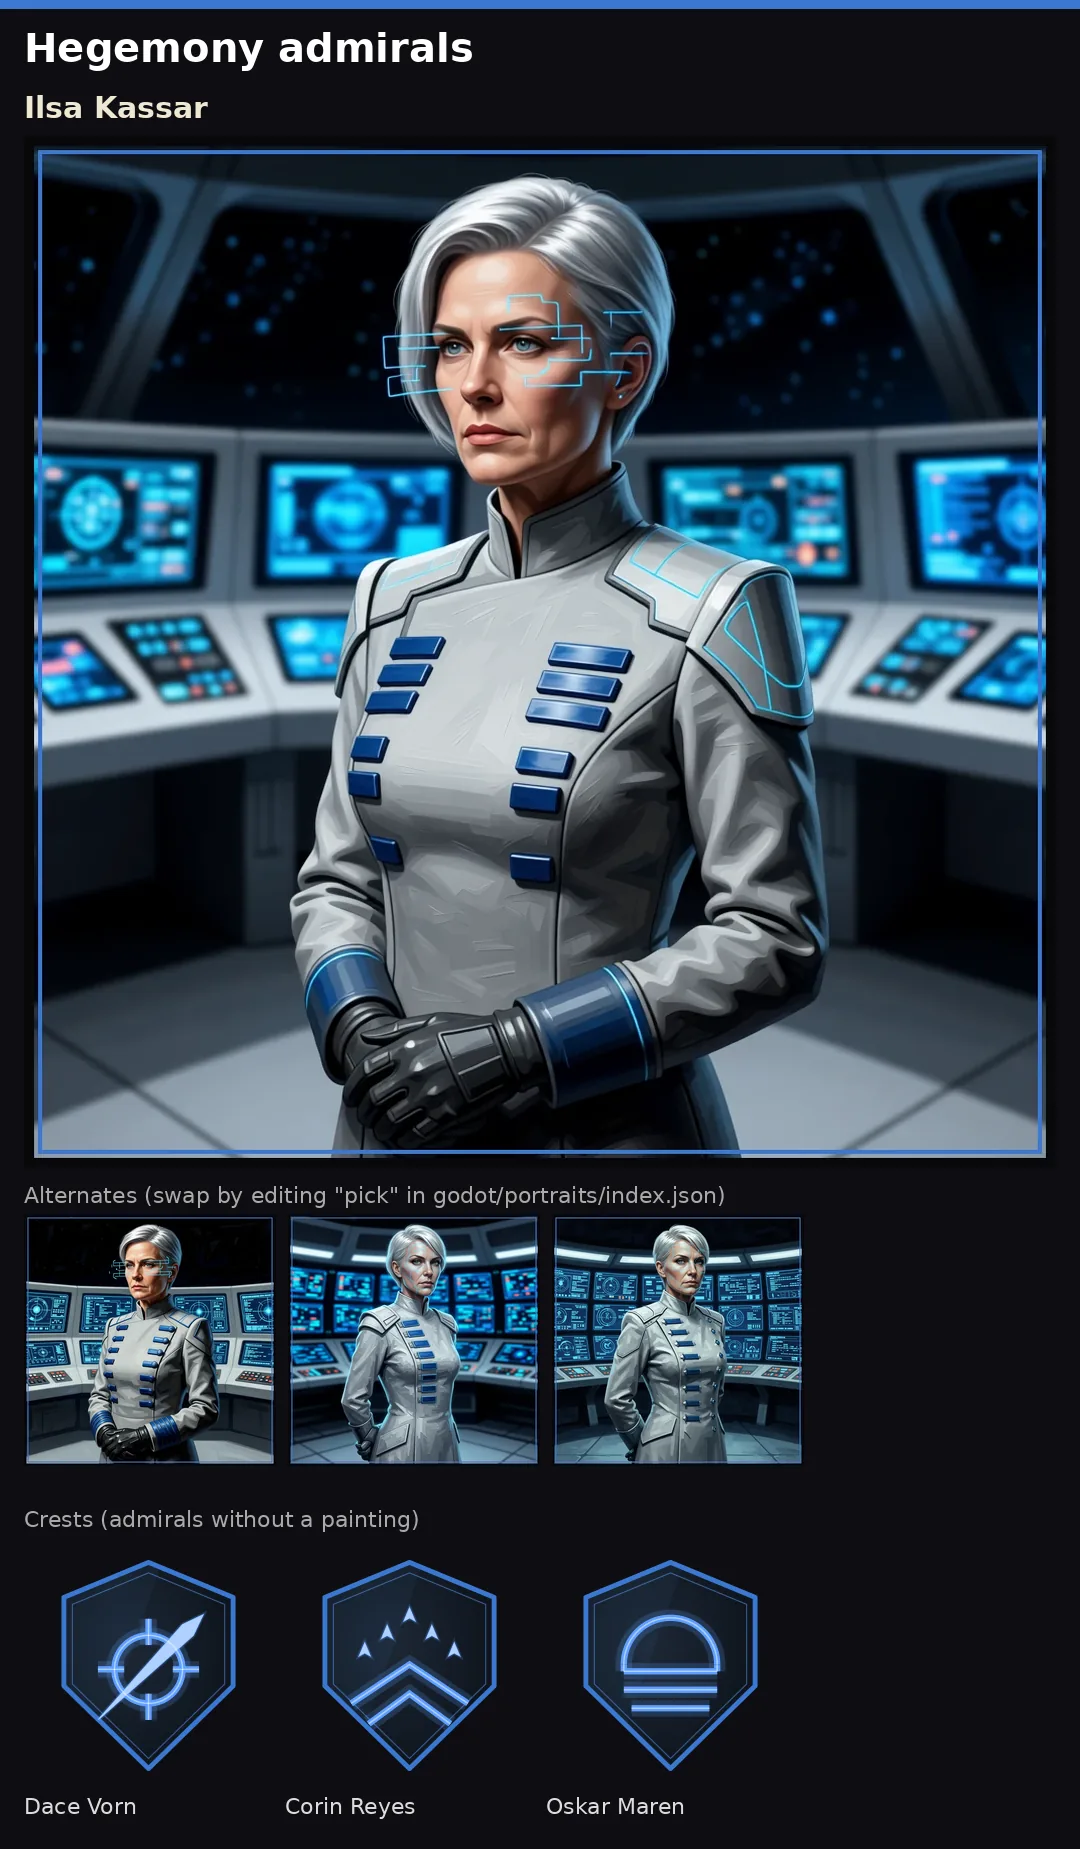
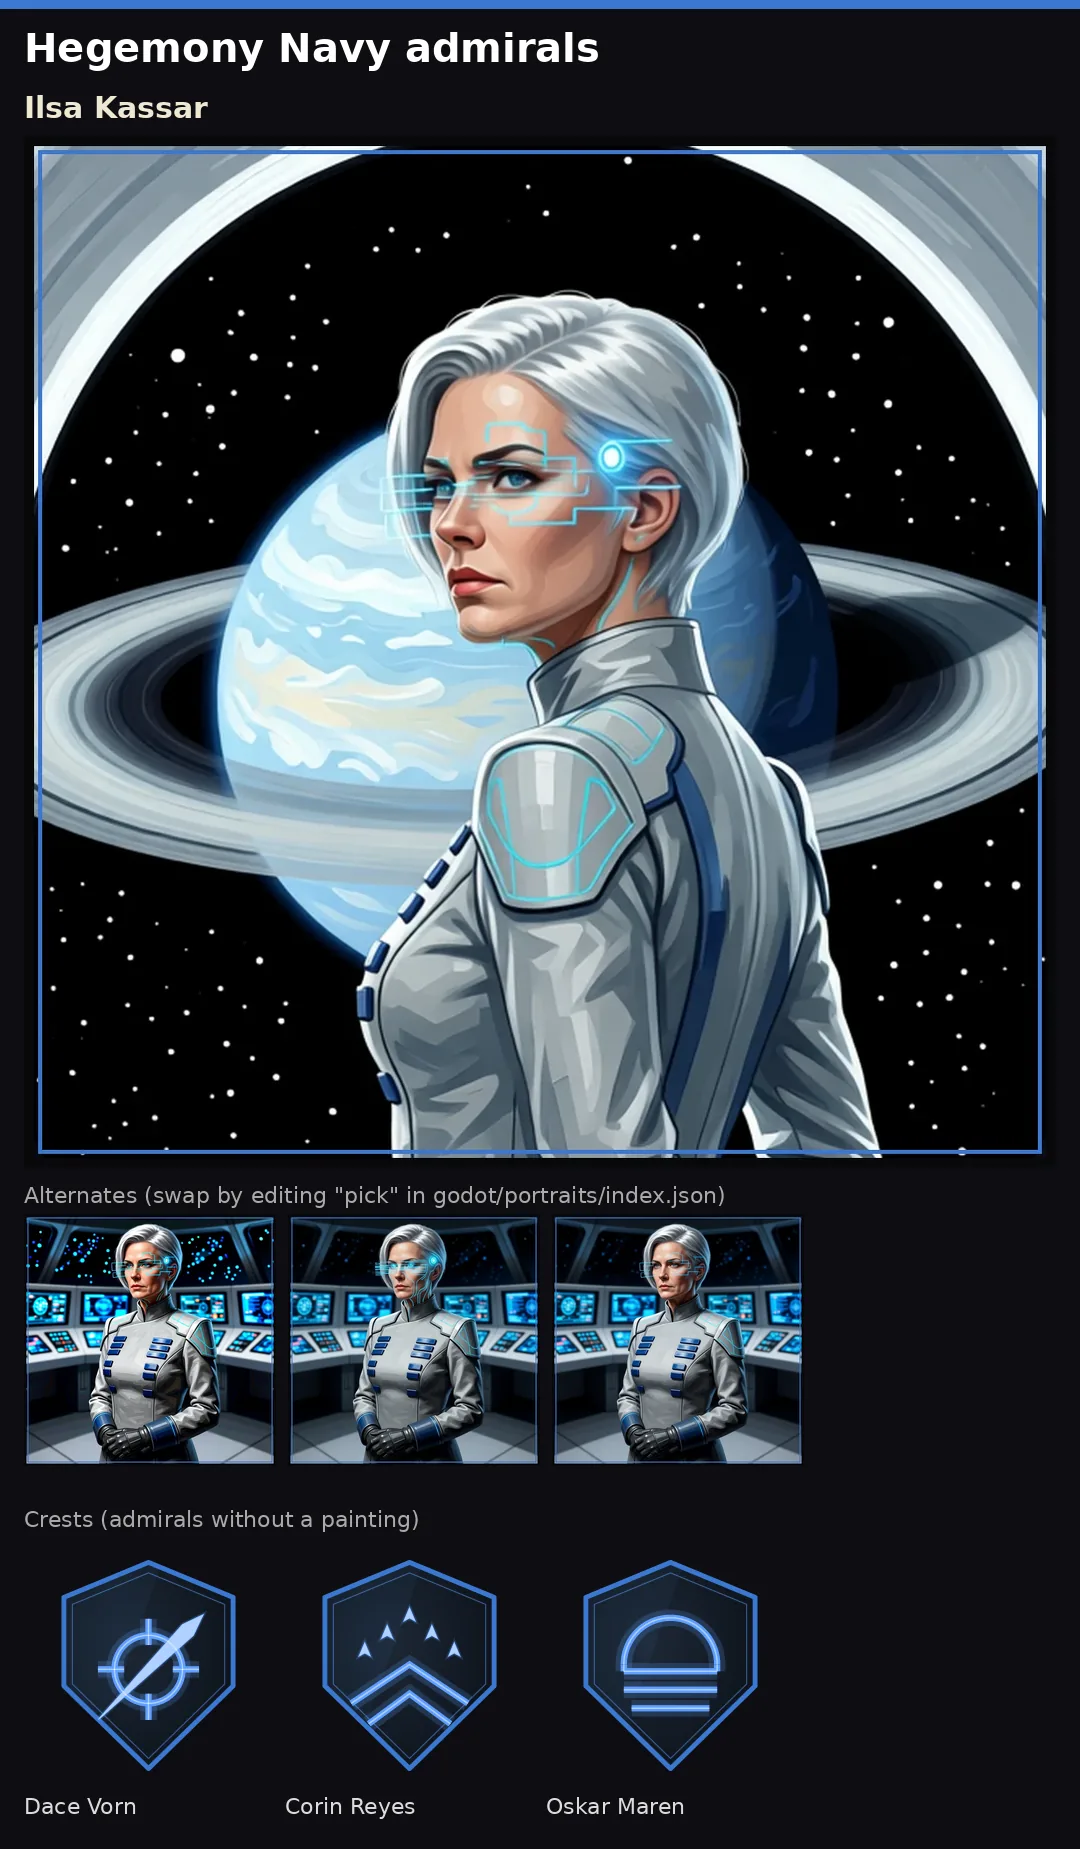
P: Kassar in a council chamber over a ringed gas giant (e64e s83; the dock and map tries drew a sea ship and Earth); Hegemony phone sheet rebuilt; Hullbreaker Nemesis 4 and 6 picks (v64h6) and s68i queued (small eye-ring implant scar, faceless Glasswright burn, scars for Nemesis 4 and 6)
Claude-Session: https://claude.ai/code/session_01TX7Q24QdU9ZhdJ2eQued6X

diff --git a/tools/portraits/make_edits.py b/tools/portraits/make_edits.py
@@ -318,6 +318,25 @@ def v64h6_items(seeds=(11, 23)):
                 for sd in seeds]
     return out
 
+# s68i (Nov 1, P helper 4): s68h review. The Hullbreaker implant scar ("bolted-on iron plate") grew into a riveted face mask on
+# Nemesis 1, 3 and 5 (Ryan's A1 ruling: no riveted mask or helmet), so it is narrowed to one small eye-socket ring; Glasswright
+# Nemesis 1's burn painted a human face on both seeds, so it is told the head stays a faceless crystal.
+CYBER_HB = ("Set one small crude iron ring into the scales around one of this creature's eyes, no bigger than the eye socket, holding a "
+            "single small glowing red lens in place of that eye, with raw scarred hide puckered round its edge. Every other part of the "
+            "head keeps its own matte scales; no plate, mask or helmet over the face.")
+BURN_GW_NOFACE = (SCAR64['ithar']['burn'] + " It has no face: the head stays a faceless faceted crystal growing straight out of the "
+                  "neck, with no eyes, nose, mouth, skin or hair on or under it.")
+def s68i_items(hb_new=(), seeds=(11, 23)):
+    out = [{'id': n, 'kind': 'cyber', 'seed': sd, 'src': 'ncrop68/%s.png' % n, 'prompt': CYBER_HB + KEEP + CLEAN_E}
+           for n in ('nem_corsair_1', 'nem_corsair_3', 'nem_corsair_5') for sd in (37, 51)]   # new seeds: s11, s23 exist
+    out += [{'id': 'nem_ithar_1', 'kind': 'burn', 'seed': sd, 'src': 's68/nem_ithar_1_fix_s11_00001_.png',
+             'prompt': BURN_GW_NOFACE + KEEP_OBJ + CLEAN_E} for sd in (37, 51)]
+    for n in hb_new:   # Hullbreaker Nemesis 4 and 6 on their v64h6 picks: all three scars
+        for k in KINDS['corsair']:
+            pr = (CYBER_HB if k == 'cyber' else SCAR64['corsair'][k]) + KEEP + CLEAN_E
+            out += [{'id': n, 'kind': k, 'seed': sd, 'src': 'ncrop68/%s.png' % n, 'prompt': pr} for sd in seeds]
+    return out
+
 if __name__ == '__main__':
     B = os.path.join(HERE, 'batches')
     fix = [{'id': nid, 'kind': 'fix', 'seed': 11, 'prompt': p + KEEP, 'src': pick_path(nid)} for nid, p in FIXES.items()]
@@ -394,3 +413,7 @@ if __name__ == '__main__':
         + s68_items('voidsworn', ['nem_voidsworn_3'])
     json.dump({'out': 's68', 'budget_s': 1150, 'items': s68h}, open(os.path.join(B, 's68h.json'), 'w'), indent=1)
     print('v64h6', len(v64h6_items()), 'e64e', len(e64e), 's68h', len(s68h))
+    # s68i: Hullbreaker implant scar narrowed, Glasswright Nemesis 1 burn kept faceless, all scars for Hullbreaker Nemesis 4 and 6
+    s68i = s68i_items(('nem_corsair_4', 'nem_corsair_6'))
+    json.dump({'out': 's68', 'budget_s': 1150, 'items': s68i}, open(os.path.join(B, 's68i.json'), 'w'), indent=1)
+    print('s68i', len(s68i))

diff --git a/tools/portraits/v64_publish.py b/tools/portraits/v64_publish.py
@@ -28,7 +28,9 @@ ADM = {
  'sable': ('corsair', 'v64b/corsair_sable_nohorn_s23', (0.71, 0.33, 0.58), 'R68: Sable in a red-lit airlock corridor with a long knife (v64h5 s23).'),
  'mott': ('corsair', 'v64b/corsair_mott_nohorn_s11', (0.70, 0.35, 0.60), 'R68: Mott in a hangar of salvage, sparks and a gutted hull (v64h5 s11).'),
  'vesh': ('corsair', 'v64b/corsair_vesh_nohorn_s11', (0.69, 0.33, 0.60), 'R68: Vesh at a forge bench welding with a blue arc (v64h5 s11).'),
- # Hegemony (e64e) and Crusade, Chorus and Eclipse: their approved paintings moved into new settings by an edit (e64)
+ 'kassar': ('hegemony', 'e64/kassar_v64_s83', (0.5, 0.36, 0.62),
+            'R68: Kassar in a white council chamber high in orbit, hands behind her back before a ringed gas giant (e64e s83).'),
+ # Crusade, Chorus and Eclipse: their approved paintings moved into new settings by an edit (e64)
  'matriarch': ('chorus', 'e64/matriarch_v64_s11', None, 'R68: the Matriarch above a planet it is consuming, spores falling into the air.'),
  'mending': ('chorus', 'e64/mending_v64_s11', None, 'R68: the Mending nested in the gutted hull of a captured warship.'),
  'nekhet': ('deathless', 'e64/nekhet_v64_s11', None, 'R68: Nekhet in a machine hall of siphon arrays draining a star.'),
@@ -63,6 +65,8 @@ NEM = {
  'nem_corsair_2': ('v64b/nem_corsair_2_nohorn_s11', (0.60, 0.27, 0.30)),
  'nem_corsair_3': ('v64b/nem_corsair_3_horn_s11', (0.27, 0.26, 0.27)),
  'nem_corsair_5': ('v64b/nem_corsair_5_nohorn_s11', (0.66, 0.26, 0.30)),
+ 'nem_corsair_4': ('v64b/nem_corsair_4_h6scale_s23', (0.63, 0.21, 0.25)),
+ 'nem_corsair_6': ('v64b/nem_corsair_6_h6fix_s23', (0.50, 0.21, 0.24)),
  'nem_ithar_2': ('v64b/nem_ithar_2_nf2_edit_s23', (0.53, 0.23, 0.30)),
  'nem_voidsworn_3': ('e64/nem_voidsworn_3_v64_s73', (0.53, 0.35, 0.23)),
  # e64c redraws (seeds 37, 51)
